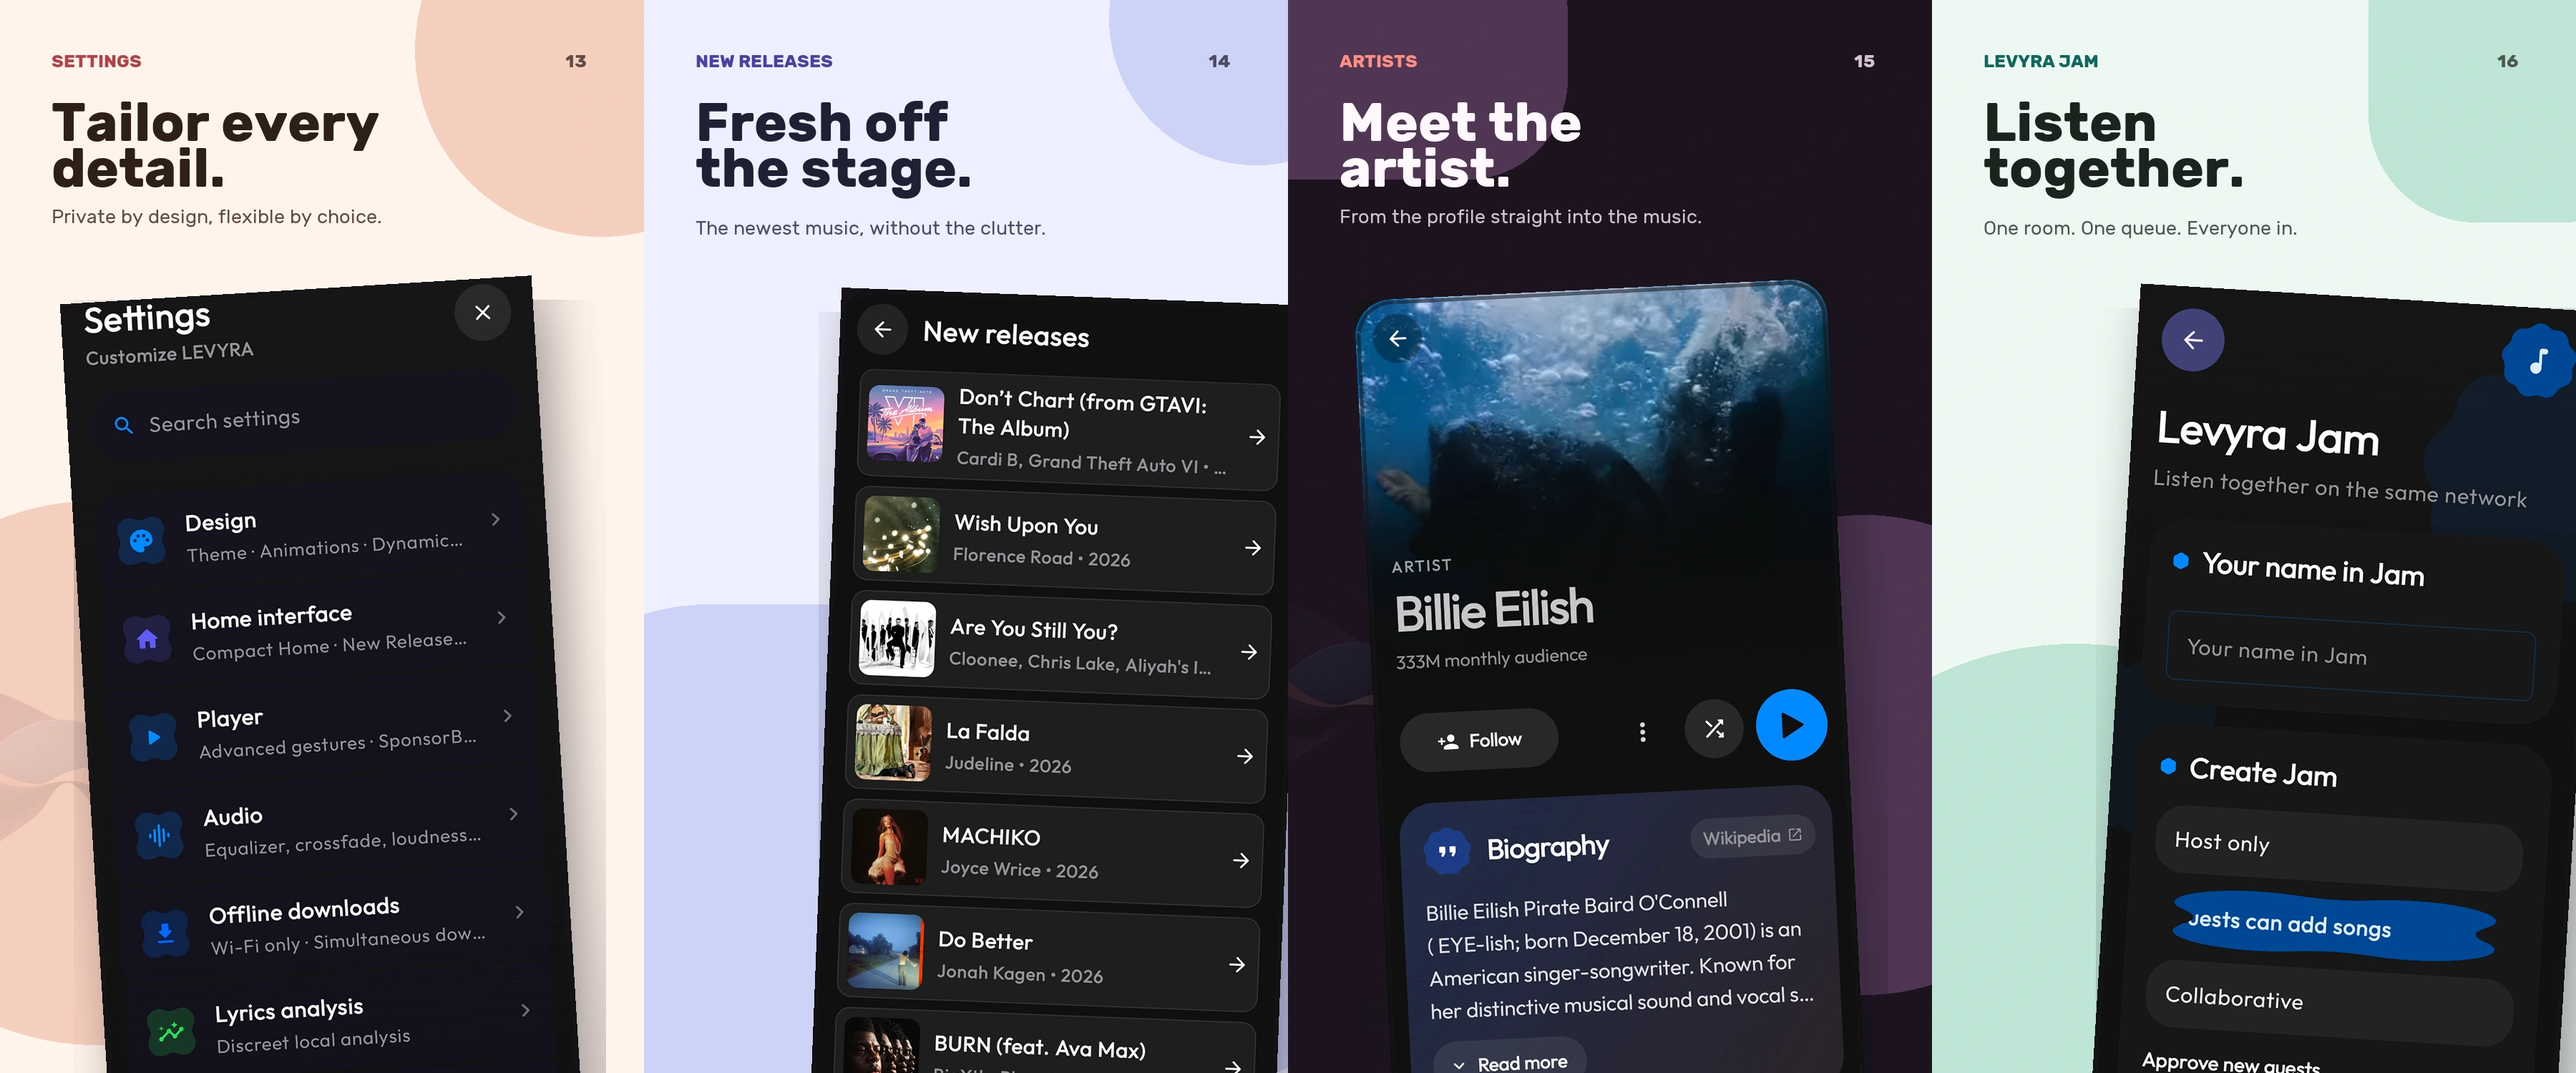
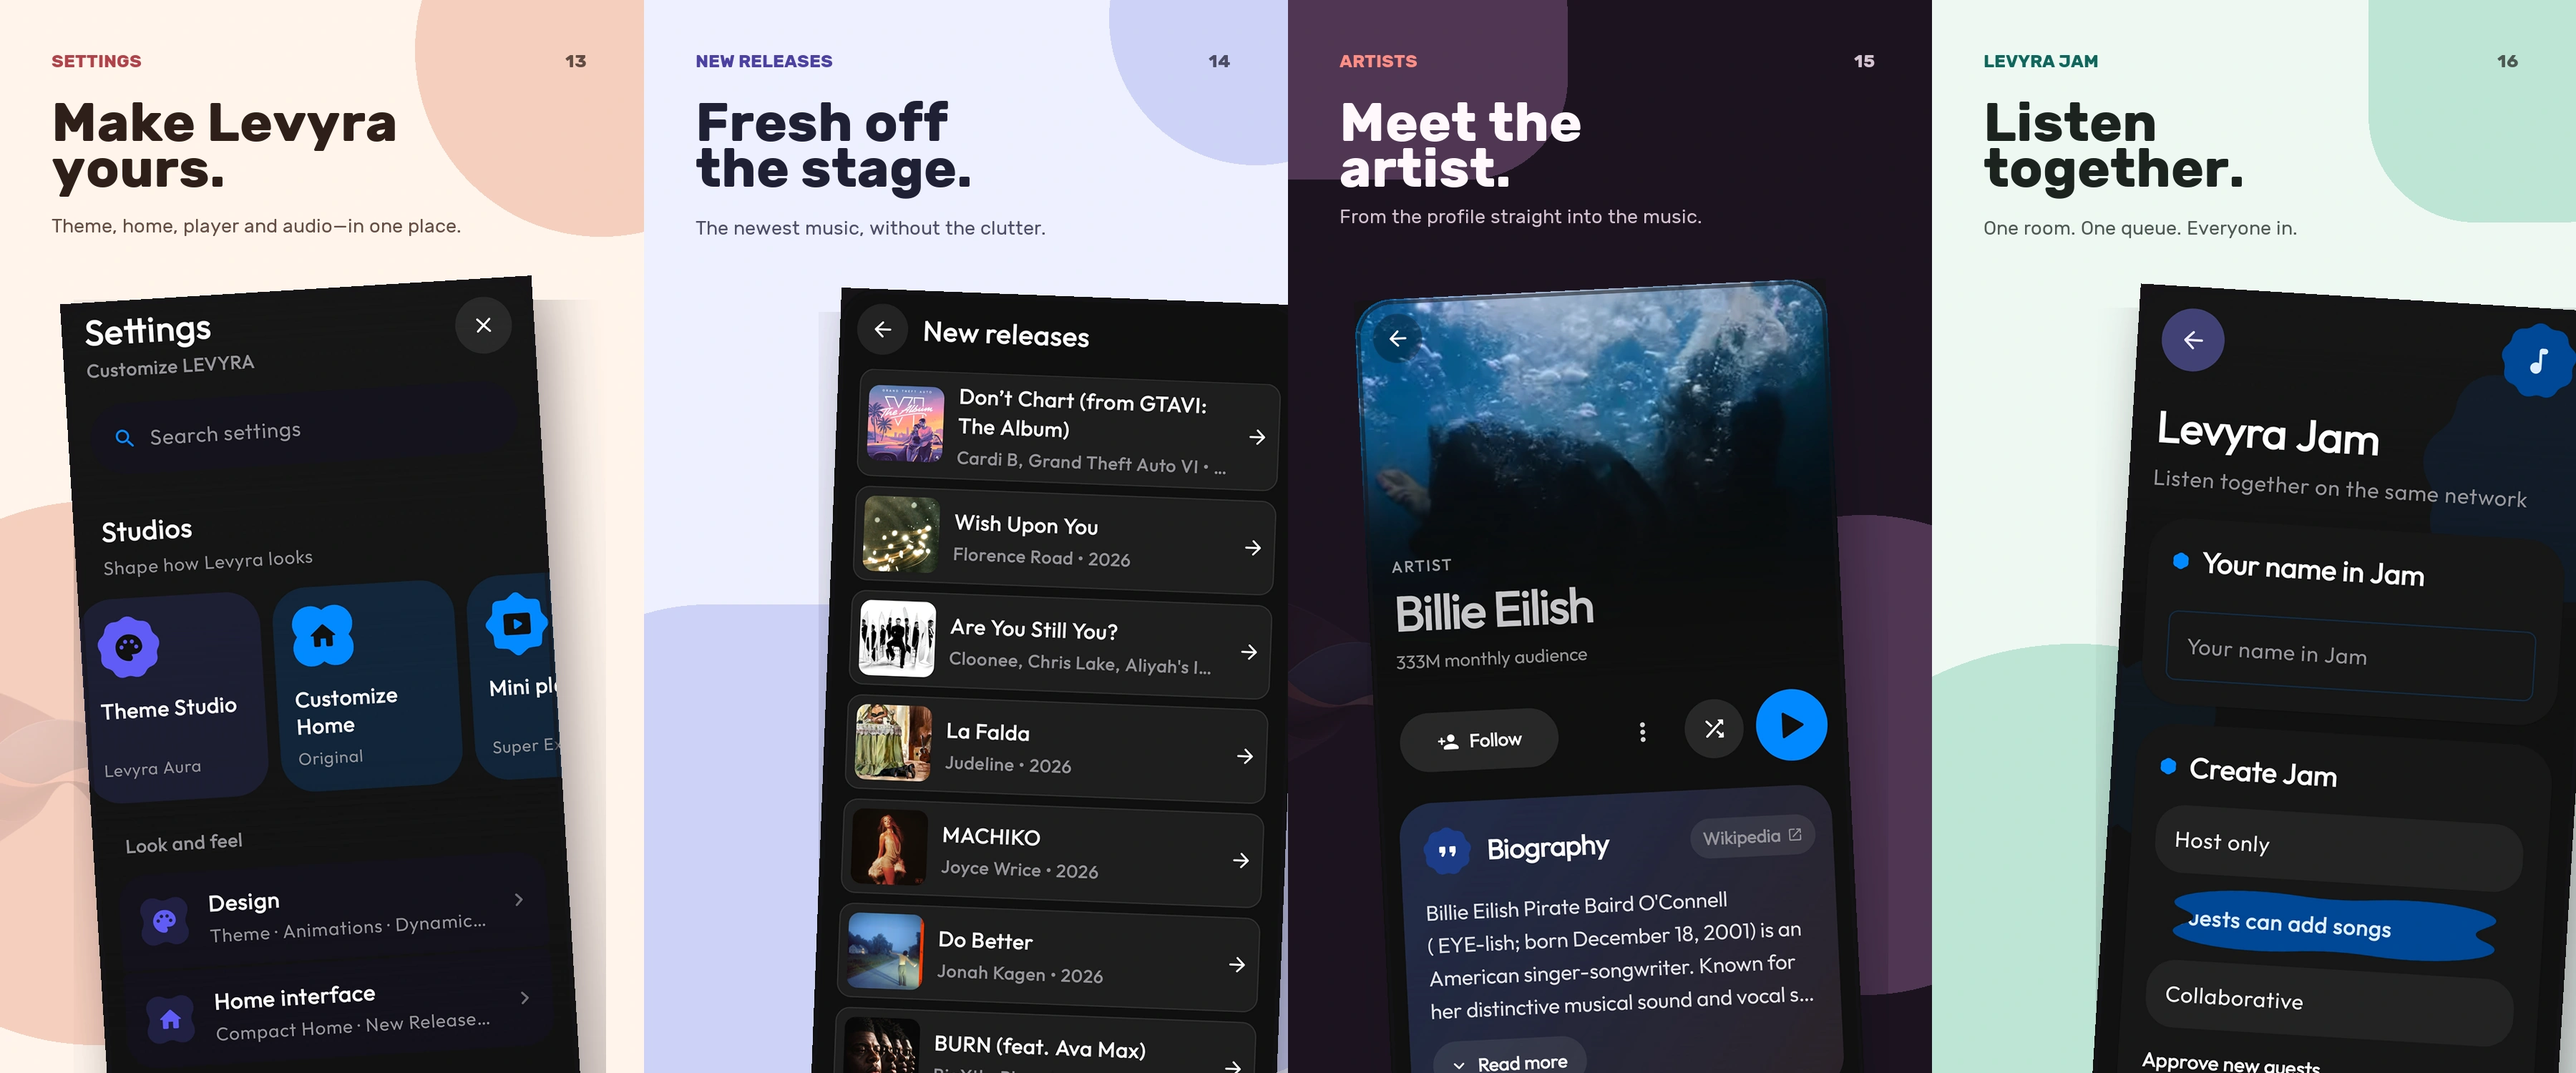
docs: update settings showcase artwork

diff --git a/scripts/generate_showcase_assets.py b/scripts/generate_showcase_assets.py
@@ -160,6 +160,7 @@ M3_MARKETING_COPY = {
     "Screenshot_20261010_132050_LEVYRA.jpg": "Listening insights that stay on-device.",
     "Screenshot_20261010_144048_LEVYRA.jpg": "Essential sets for every artist.",
     "Screenshot_20261010_140700_LEVYRA.jpg": "Design, audio, gestures, and local backups.",
+    "Screenshot_20261015_205614_LEVYRA.jpg": "Theme, home, player, and audio in one place.",
     "Screenshot_20261010_144144_LEVYRA.jpg": "New singles and albums, every week.",
     "Screenshot_20261010_143646_LEVYRA.jpg": "Discography, biography, and top tracks.",
     "Screenshot_20261011_202032_LEVYRA.jpg": "Daily charts from every country.",
@@ -438,9 +439,9 @@ M3_SHOWCASE_SPECS = [
      "Curated sets, tours, and the\nessential catalog of every artist.",
      (100, 50, 190), ["15_artist_playlists.webp"]),
 
-    # Card 16: Vault & Settings
-    ("Screenshot_20261010_140700_LEVYRA.jpg", "PRIVACY & BACKUP", "Tailor every detail.",
-     "Audio, design, gestures, and local\nsingle-file Vault backups.",
+    # Card 16: Settings
+    ("Screenshot_20261015_205614_LEVYRA.jpg", "SETTINGS STUDIO", "Make Levyra yours.",
+     "Theme, home, player, and audio—\nall tuned from one place.",
      (115, 55, 180), ["16_settings_vault.webp"]),
 
     # Card 17: New Releases
@@ -593,7 +594,7 @@ README_CARD_SPECS = [
     ("10_curated_for_you", "COLLECTIONS", "Curated\nfor you.", "Quick picks, ready when you are.", "Screenshot_20261010_132136_LEVYRA.jpg"),
     ("11_your_rhythm", "INSIGHTS", "Your\nrhythm.", "See the pattern behind the plays.", "Screenshot_20260927_131943_LEVYRA.jpg"),
     ("12_in_your_orbit", "HOME", "In your\norbit.", "Artists and albums close at hand.", "Screenshot_20261010_132103_LEVYRA.jpg"),
-    ("13_tailor_every_detail", "SETTINGS", "Tailor every\ndetail.", "Private by design, flexible by choice.", "Screenshot_20261010_140700_LEVYRA.jpg"),
+    ("13_tailor_every_detail", "SETTINGS", "Make Levyra\nyours.", "Theme, home, player and audio—in one place.", "Screenshot_20261015_205614_LEVYRA.jpg"),
     ("14_fresh_off_the_stage", "NEW RELEASES", "Fresh off\nthe stage.", "The newest music, without the clutter.", "Screenshot_20261010_144144_LEVYRA.jpg"),
     ("15_meet_the_artist", "ARTISTS", "Meet the\nartist.", "From the profile straight into the music.", "Screenshot_20261010_143646_LEVYRA.jpg"),
     ("16_listen_together", "LEVYRA JAM", "Listen\ntogether.", "One room. One queue. Everyone in.", "Screenshot_20261011_133434_LEVYRA.jpg"),

diff --git a/README.md b/README.md
@@ -128,7 +128,7 @@ Enhanced Audio is on by default and can be turned off in Audio Settings. Technic
 <div><img src="docs/assets/showcase/editorial-cards/editorial-grid-row-01.webp?v=editorial-grid-v1" width="900" align="top" alt="Levyra showcase: radio, now playing, lyrics, and offline albums" /></div>
 <div><img src="docs/assets/showcase/editorial-cards/editorial-grid-row-02.webp?v=editorial-grid-v1" width="900" align="top" alt="Levyra showcase: discovery, mixes, moods, and audio controls" /></div>
 <div><img src="docs/assets/showcase/editorial-cards/editorial-grid-row-03.webp?v=editorial-grid-v1" width="900" align="top" alt="Levyra showcase: library, collections, insights, and home" /></div>
-<div><img src="docs/assets/showcase/editorial-cards/editorial-grid-row-04.webp?v=editorial-grid-v1" width="900" align="top" alt="Levyra showcase: settings, new releases, artists, and Jam" /></div>
+<div><img src="docs/assets/showcase/editorial-cards/editorial-grid-row-04.webp?v=editorial-grid-v2" width="900" align="top" alt="Levyra showcase: settings, new releases, artists, and Jam" /></div>
 </div>
 
 </div>
